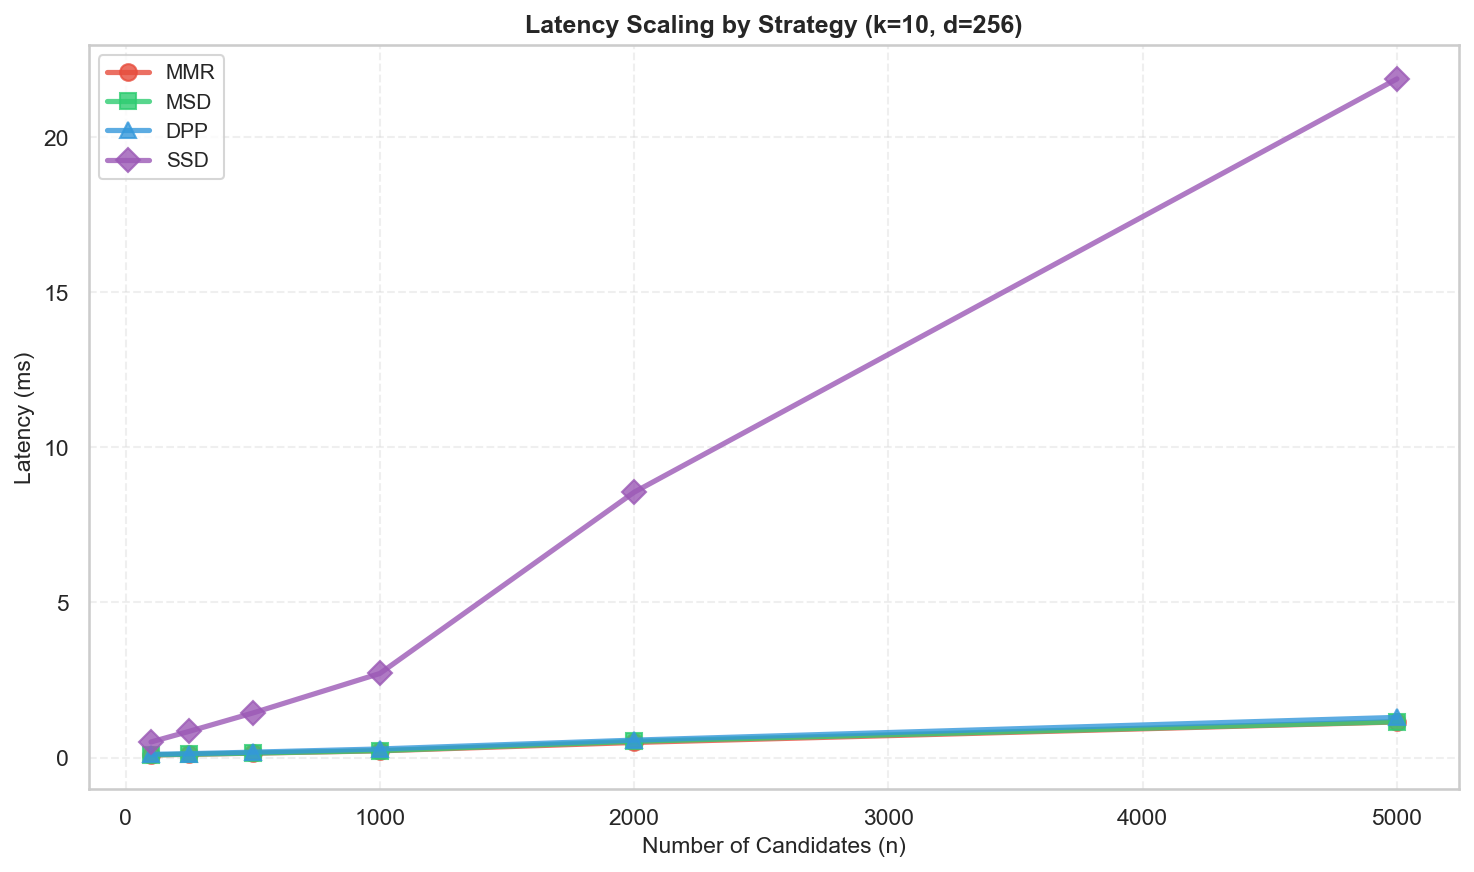
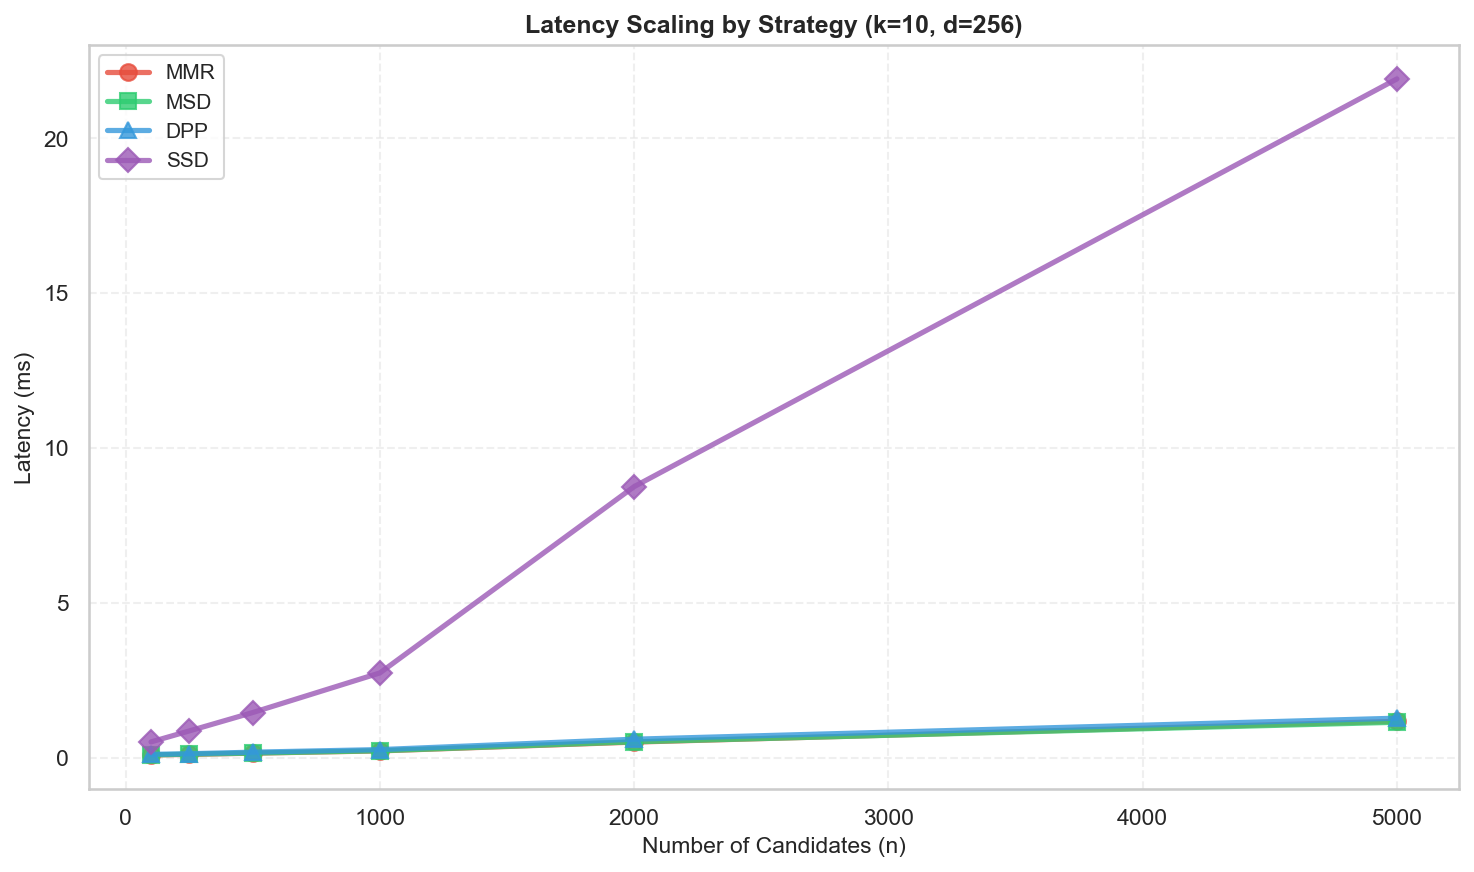
Added 99% threshold diamond to plot

diff --git a/benchmarks/core/report.py b/benchmarks/core/report.py
@@ -254,7 +254,8 @@ def generate_pareto_plot(all_data: list[dict], output_path: Path, diversity_metr
     markers = {"mmr": "o", "msd": "s", "dpp": "^", "ssd": "D"}
 
     # Get best operating points for each dataset (use default 95% floor)
-    budgeted_scores = _compute_relevance_budgeted_scores(all_data, relevance_floor=0.95)
+    budgeted_scores_95 = _compute_relevance_budgeted_scores(all_data, relevance_floor=0.95)
+    budgeted_scores_99 = _compute_relevance_budgeted_scores(all_data, relevance_floor=0.99)
 
     for ax, dataset in zip(axes, datasets):
         for strategy in strategies:
@@ -275,11 +276,12 @@ def generate_pareto_plot(all_data: list[dict], output_path: Path, diversity_metr
                     alpha=0.8,
                 )
 
-        # Add stars for best operating points (best for this specific metric)
-        if dataset in budgeted_scores:
-            # Use max_ilad for ILAD plots, max_ilmd for ILMD plots
-            goal_key = "max_ilad" if diversity_metric == "ilad" else "max_ilmd"
-            best = budgeted_scores[dataset].get(goal_key)
+        # Add stars for best operating points at both floors
+        goal_key = "max_ilad" if diversity_metric == "ilad" else "max_ilmd"
+
+        # Filled star for 95% floor
+        if dataset in budgeted_scores_95:
+            best = budgeted_scores_95[dataset].get(goal_key)
             if best:
                 x_star = best["ilad"] if diversity_metric == "ilad" else best["ilmd"]
                 y_star = best["ndcg"]
@@ -289,6 +291,24 @@ def generate_pareto_plot(all_data: list[dict], output_path: Path, diversity_metr
                     [y_star],
                     marker="*",
                     s=200,
+                    c=colors[strategy],
+                    edgecolors="black",
+                    linewidths=1,
+                    zorder=10,
+                )
+
+        # Diamond for 99% floor
+        if dataset in budgeted_scores_99:
+            best = budgeted_scores_99[dataset].get(goal_key)
+            if best:
+                x_diamond = best["ilad"] if diversity_metric == "ilad" else best["ilmd"]
+                y_diamond = best["ndcg"]
+                strategy = str(best["strategy"])
+                ax.scatter(
+                    [x_diamond],
+                    [y_diamond],
+                    marker="D",
+                    s=100,
                     c=colors[strategy],
                     edgecolors="black",
                     linewidths=1,

diff --git a/benchmarks/README.md b/benchmarks/README.md
@@ -79,13 +79,13 @@ We report results at two relevance floors:
 
 ![Relevance vs ILAD Tradeoff](results/pareto_ilad.png)
 
-*Higher ILAD = more overall variety in recommendations. ★ marks the best ILAD point across all strategies (≥95% baseline relevance).*
+*Higher ILAD = more overall variety in recommendations. ★ = best at 95% floor, ◆ = best at 99% floor.*
 
 ### ILMD (Minimum Diversity)
 
 ![Relevance vs ILMD Tradeoff](results/pareto_ilmd.png)
 
-*Higher ILMD = better worst-case diversity (fewer similar pairs). ★ marks the best ILMD point across all strategies (≥95% baseline relevance).*
+*Higher ILMD = better worst-case diversity (fewer similar pairs). ★ = best at 95% floor, ◆ = best at 99% floor.*
 
 ## Latency
 
